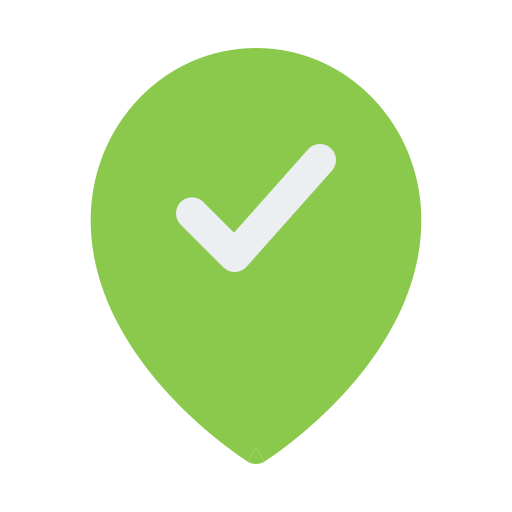
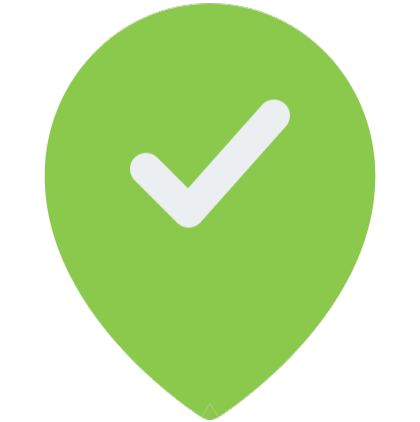
Resized and reuploaded closed-marker

diff --git a/frontend/src/components/Map.jsx b/frontend/src/components/Map.jsx
@@ -50,7 +50,7 @@ const Map = ({ mapCenter, mapZoom, onMapMove, refreshTrigger }) => {
 
     // Group events by lat/lng string
     const coordMap = {};
-    events.forEach(event => {
+    events.forEach((event) => {
       if (event.lat_location && event.long_location) {
         const key = `${event.lat_location},${event.long_location}`;
         if (!coordMap[key]) coordMap[key] = [];
@@ -195,7 +195,9 @@ const Map = ({ mapCenter, mapZoom, onMapMove, refreshTrigger }) => {
       {useEffect(() => {
         if (mapInstance && window.google) {
           // Remove any previous legend controls
-          mapInstance.controls[window.google.maps.ControlPosition.RIGHT_BOTTOM].clear();
+          mapInstance.controls[
+            window.google.maps.ControlPosition.RIGHT_BOTTOM
+          ].clear();
           // Create a DOM node for the legend
           const legendDiv = document.createElement("div");
           legendDiv.className = "map-legend";
@@ -204,7 +206,9 @@ const Map = ({ mapCenter, mapZoom, onMapMove, refreshTrigger }) => {
             <div class='legend-row'><img src='/issue-marker.png' alt='Issue' style='width:28px;height:28px;vertical-align:middle;margin-right:4px;'/> <span>Issue</span></div>
             <div class='legend-row'><img src='/closed-marker.png' alt='Closed' style='width:28px;height:28px;vertical-align:middle;margin-right:4px;'/> <span>Closed</span></div>
           `;
-          mapInstance.controls[window.google.maps.ControlPosition.RIGHT_BOTTOM].push(legendDiv);
+          mapInstance.controls[
+            window.google.maps.ControlPosition.RIGHT_BOTTOM
+          ].push(legendDiv);
         }
       }, [mapInstance])}
     </div>

diff --git a/frontend/src/styles/components/button.css b/frontend/src/styles/components/button.css
@@ -41,6 +41,10 @@ button:disabled {
 
 .add-icon {
   width: 2rem;
+  height: auto;
+  cursor: pointer;
+  transition: all 0.2s ease;
+  color: #0077cc;
 }
 
 .edit-profile-icon {
@@ -50,7 +54,6 @@ button:disabled {
 
 .edit-icon,
 .delete-icon,
-.add-icon,
 .close-icon,
 .edit-profile-icon {
   height: auto;
